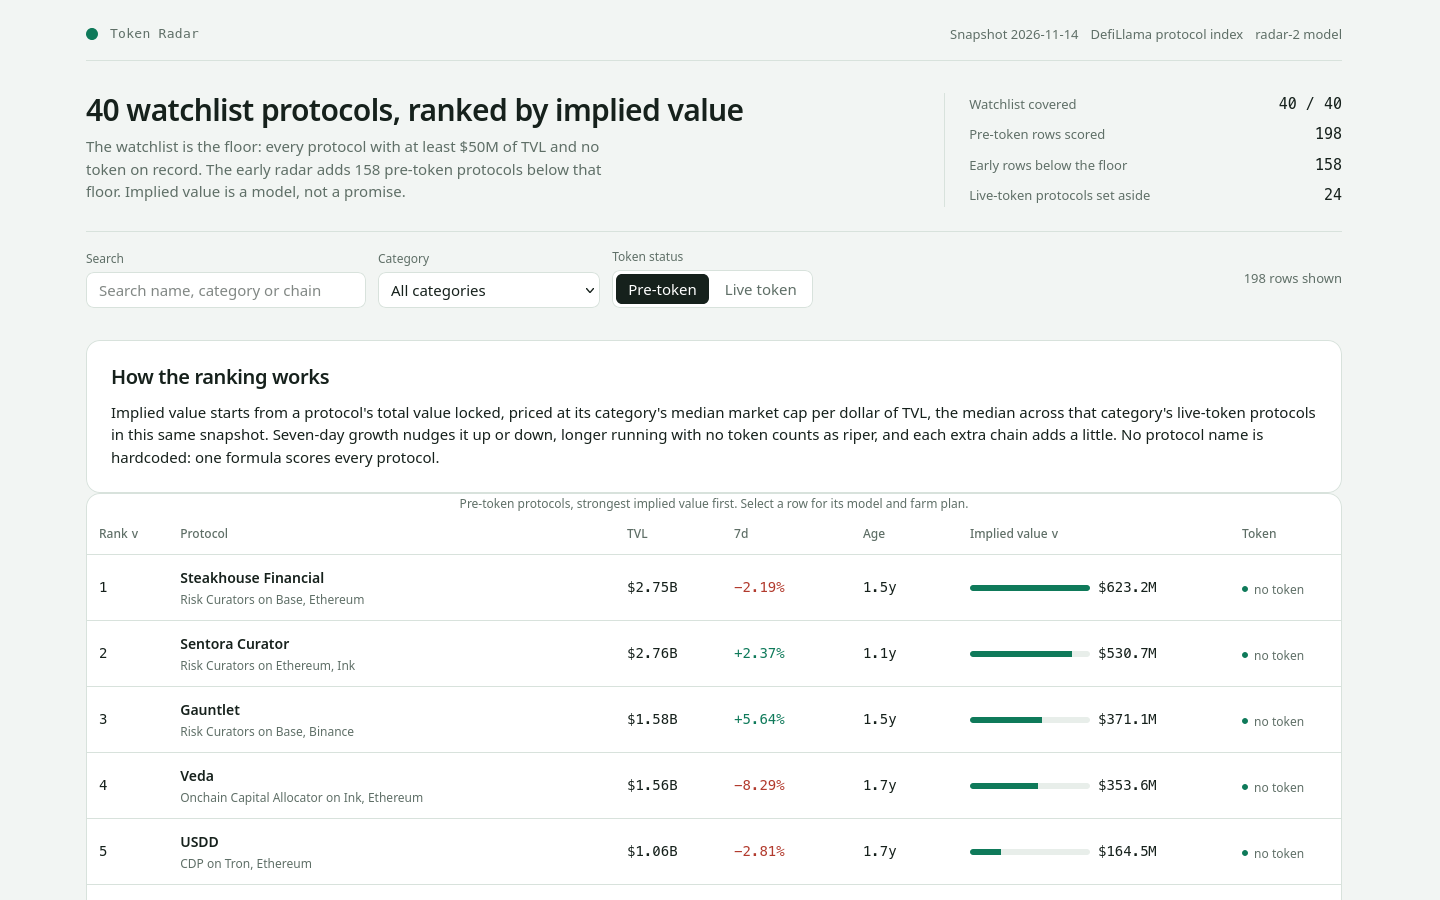
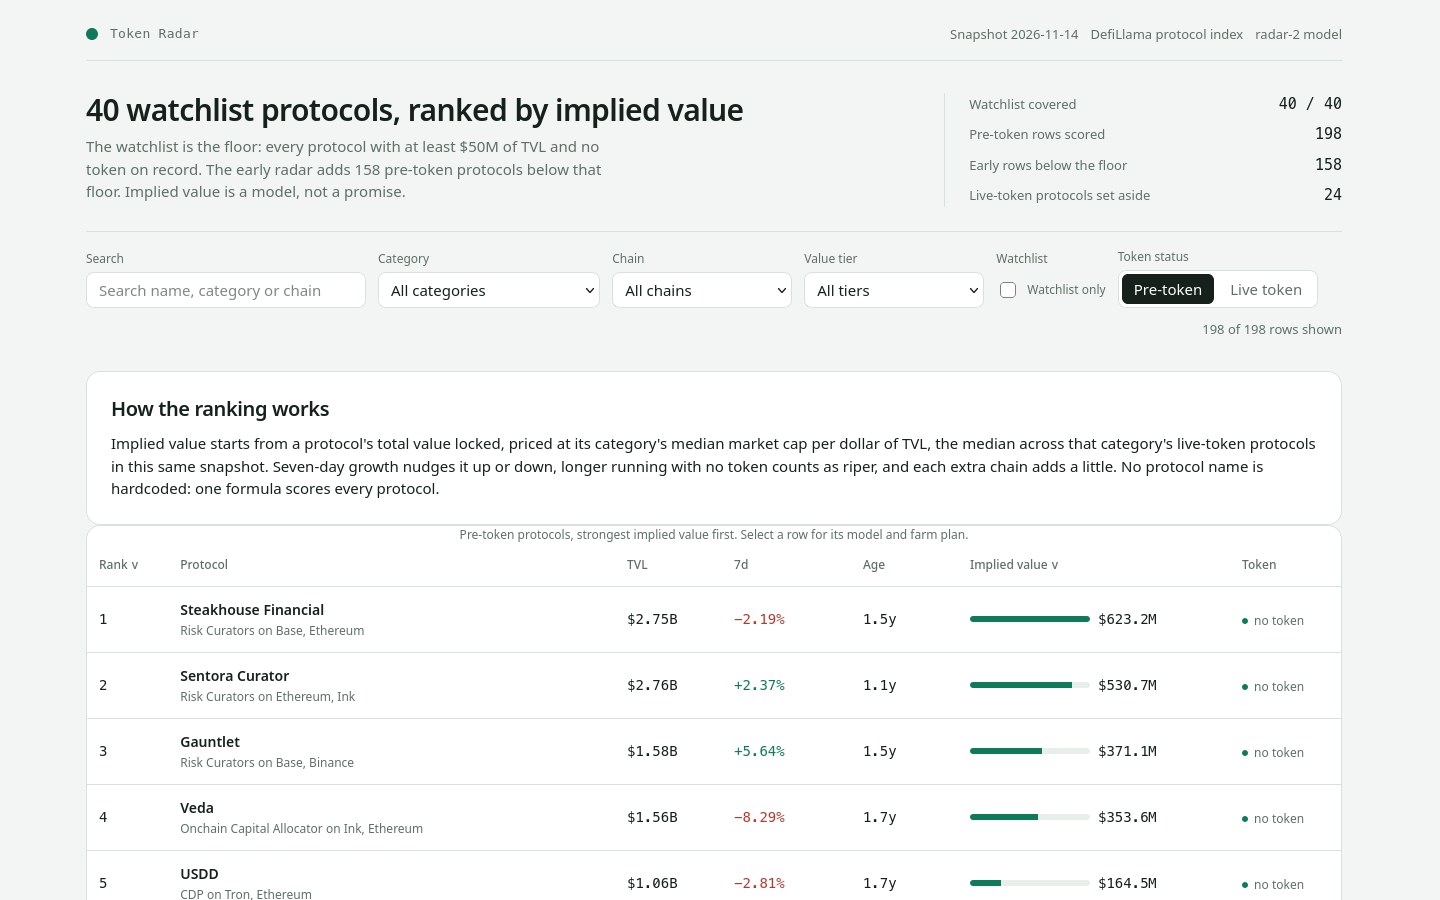
token-radar v3: chain/tier/watchlist filters, category leaders, farm summary, rank context

diff --git a/dashboard/app.js b/dashboard/app.js
@@ -8,7 +8,33 @@
   if (!DATA) return;
   var ENRICH = DATA.enrichments || {};
   var app = document.getElementById('board');
-  var state = { q: '', category: 'all', tab: 'pre-token', sort: 'implied', dir: -1, selected: null };
+  var state = { q: '', category: 'all', chain: 'all', tier: 'all', watchlistOnly: false, tab: 'pre-token', sort: 'implied', dir: -1, selected: null };
+
+  // The value tiers the enrichment layer assigns, largest implied value first, so the
+  // tier filter lists them in the same order the board reads them.
+  var TIER_ORDER = ['flagship', 'major', 'notable', 'emerging', 'nascent'];
+
+  // Every chain the board's rows run on, sorted, for the chain filter: derived from the
+  // rows themselves, so a snapshot with a new chain lists it with no code change.
+  function allChains() {
+    var seen = {};
+    DATA.rows.forEach(function (r) { (r.chains || []).forEach(function (c) { seen[c] = true; }); });
+    return Object.keys(seen).sort();
+  }
+
+  // A row's value tier from its enrichment record; a row with no enrichment reads as
+  // nascent, the smallest tier, so the filter never drops a row for missing data.
+  function tierOf(row) {
+    var e = ENRICH[row.slug];
+    return e && e.value_tier ? e.value_tier : 'nascent';
+  }
+
+  // Whether a row is one of the 40 watchlist protocols: its slug is in the list main.ts
+  // writes beside the board, so the watchlist-only view needs no second source of truth.
+  function isWatchlist(row) {
+    var slugs = DATA.watchlist_slugs || [];
+    return slugs.indexOf(row.slug) >= 0;
+  }
 
   var usd = new Intl.NumberFormat('en-US', { style: 'currency', currency: 'USD', maximumFractionDigits: 0 });
   function fmtUsd(n) {
@@ -127,11 +153,17 @@
     if (params.get('q')) state.q = params.get('q');
     if (params.get('p')) state.selected = params.get('p');
     if (params.get('category')) state.category = params.get('category');
+    if (params.get('chain')) state.chain = params.get('chain');
+    if (params.get('tier')) state.tier = params.get('tier');
+    if (params.get('wl') === '1') state.watchlistOnly = true;
   }
   function writeHash() {
     var params = new URLSearchParams();
     if (state.q) params.set('q', state.q);
     if (state.category !== 'all') params.set('category', state.category);
+    if (state.chain !== 'all') params.set('chain', state.chain);
+    if (state.tier !== 'all') params.set('tier', state.tier);
+    if (state.watchlistOnly) params.set('wl', '1');
     if (state.selected) params.set('p', state.selected);
     var next = params.toString();
     if (next) window.history.replaceState(null, '', '#' + next);
@@ -142,10 +174,31 @@
     var q = state.q.trim().toLowerCase();
     return DATA.rows.filter(function (r) {
       if (state.category !== 'all' && r.category !== state.category) return false;
+      if (state.chain !== 'all' && (r.chains || []).indexOf(state.chain) < 0) return false;
+      if (state.tier !== 'all' && tierOf(r) !== state.tier) return false;
+      if (state.watchlistOnly && !isWatchlist(r)) return false;
       if (!q) return true;
       var hay = [r.name, r.slug, r.category, (r.chains || []).join(' ')].join(' ').toLowerCase();
       return hay.indexOf(q) >= 0;
     });
+  }
+
+  // How many of the board's rows survive the filters, and how many the watchlist holds,
+  // so the count line under the controls always says what the filters are doing.
+  function filterSummary() {
+    var shown = rows().length;
+    var total = DATA.rows.length;
+    var wl = (DATA.watchlist_slugs || []).length;
+    var active = [];
+    if (state.category !== 'all') active.push(state.category);
+    if (state.chain !== 'all') active.push(state.chain);
+    if (state.tier !== 'all') active.push(state.tier + ' tier');
+    if (state.watchlistOnly) active.push('watchlist only');
+    if (state.q.trim()) active.push('"' + state.q.trim() + '"');
+    var label = shown + ' of ' + total + ' rows shown';
+    if (active.length > 0) label += ' (' + active.join(' + ') + ')';
+    if (state.watchlistOnly) label += ' of ' + wl + ' watchlist protocols';
+    return label;
   }
   function sortedRows(list) {
     var key = state.sort;
@@ -190,6 +243,7 @@
 
   function controls() {
     var categories = Array.from(new Set(DATA.rows.map(function (r) { return r.category || 'Other'; }))).sort();
+    var chains = allChains();
     var search = el('input', { type: 'search', id: 'q', placeholder: 'Search name, category or chain', value: state.q, 'aria-label': 'Search the board' });
     search.addEventListener('input', function () { state.q = search.value; writeHash(); render(); });
     var select = el('select', { id: 'category', 'aria-label': 'Filter by category' },
@@ -197,13 +251,27 @@
       categories.map(function (c) { return el('option', { value: c, text: c, selected: c === state.category ? 'selected' : null }); })
     );
     select.addEventListener('change', function () { state.category = select.value; writeHash(); render(); });
+    var chainSelect = el('select', { id: 'chain', 'aria-label': 'Filter by chain' },
+      el('option', { value: 'all', text: 'All chains' }),
+      chains.map(function (c) { return el('option', { value: c, text: c, selected: c === state.chain ? 'selected' : null }); })
+    );
+    chainSelect.addEventListener('change', function () { state.chain = chainSelect.value; writeHash(); render(); });
+    var tierSelect = el('select', { id: 'tier', 'aria-label': 'Filter by value tier' },
+      el('option', { value: 'all', text: 'All tiers' }),
+      TIER_ORDER.map(function (t) { return el('option', { value: t, text: t + ' tier', selected: t === state.tier ? 'selected' : null }); })
+    );
+    tierSelect.addEventListener('change', function () { state.tier = tierSelect.value; writeHash(); render(); });
+    var watchlistBox = el('input', { type: 'checkbox', id: 'watchlist-only', checked: state.watchlistOnly ? 'checked' : null, onchange: function () { state.watchlistOnly = watchlistBox.checked; writeHash(); render(); } });
     var pre = el('button', { type: 'button', 'aria-pressed': state.tab === 'pre-token' ? 'true' : 'false', text: 'Pre-token', onclick: function () { state.tab = 'pre-token'; render(); } });
     var live = el('button', { type: 'button', 'aria-pressed': state.tab === 'live' ? 'true' : 'false', text: 'Live token', onclick: function () { state.tab = 'live'; render(); } });
     return el('div', { class: 'controls' },
       el('div', { class: 'field' }, el('label', { for: 'q', text: 'Search' }), search),
       el('div', { class: 'field' }, el('label', { for: 'category', text: 'Category' }), select),
+      el('div', { class: 'field' }, el('label', { for: 'chain', text: 'Chain' }), chainSelect),
+      el('div', { class: 'field' }, el('label', { for: 'tier', text: 'Value tier' }), tierSelect),
+      el('div', { class: 'field' }, el('span', { class: 'sub', text: 'Watchlist' }), el('label', { class: 'check' }, watchlistBox, 'Watchlist only')),
       el('div', { class: 'field' }, el('span', { class: 'sub', text: 'Token status' }), el('div', { class: 'tabs' }, pre, live)),
-      el('span', { class: 'count', text: state.tab === 'pre-token' ? rows().length + ' rows shown' : DATA.live.length + ' live-token protocols' })
+      el('span', { class: 'count', text: state.tab === 'pre-token' ? filterSummary() : DATA.live.length + ' live-token protocols' })
     );
   }
 
@@ -222,7 +290,7 @@
       return el('div', { class: 'panel' }, el('div', { class: 'empty' },
         el('h2', { text: 'No protocol matches that filter' }),
         el('p', { text: 'Clear the search or pick another category to see the board again.' }),
-        el('button', { class: 'button primary', type: 'button', text: 'Clear filters', onclick: function () { state.q = ''; state.category = 'all'; writeHash(); render(); } })
+        el('button', { class: 'button primary', type: 'button', text: 'Clear filters', onclick: function () { state.q = ''; state.category = 'all'; state.chain = 'all'; state.tier = 'all'; state.watchlistOnly = false; writeHash(); render(); } })
       ));
     }
     var max = list[0].implied_value_usd || 1;
@@ -355,6 +423,31 @@
     );
   }
 
+  // The category leaders: the single strongest protocol in each line of business, by
+  // implied value, so a reader can see at a glance which name leads lending, which leads
+  // bridges, and so on, without sorting the whole board. The leader is the row with the
+  // largest implied value in its category; ties are impossible, ranks are unique.
+  function categoryLeaders() {
+    var best = {};
+    DATA.rows.forEach(function (r) {
+      var c = r.category || 'Other';
+      if (!best[c] || r.implied_value_usd > best[c].implied_value_usd) best[c] = r;
+    });
+    var list = Object.keys(best).map(function (c) { return best[c]; }).sort(function (a, b) { return b.implied_value_usd - a.implied_value_usd; });
+    var max = list.length ? list[0].implied_value_usd : 1;
+    return el('section', { class: 'panel model' },
+      el('h2', { text: 'Category leaders' }),
+      el('p', { class: 'sub', text: 'The strongest pre-token protocol in each line of business, by implied value. ' + list.length + ' categories, one leader each.' }),
+      el('div', { class: 'catbars' }, list.map(function (r) {
+        return el('div', { class: 'catbar' },
+          el('span', { class: 'catname', text: (r.category || 'Other') + ': ' + r.name + ' (#' + r.rank + ')' }),
+          el('div', { class: 'bar wide', 'aria-hidden': 'true' }, el('i', { style: 'width:' + Math.max(3, Math.round((r.implied_value_usd / max) * 100)) + '%' })),
+          el('span', { class: 'num', text: fmtUsd(r.implied_value_usd) })
+        );
+      }))
+    );
+  }
+
   // One labelled value for the detail view's equation grid: a plain label and a bold figure.
   function detailRow(label, value) {
     return el('div', null, el('span', { text: label }), el('b', { class: 'num', text: value }));
@@ -452,6 +545,47 @@
     host.appendChild(el('section', { class: 'panel model' }, heading, intro, wrap));
   }
 
+  // The farm plan in one box: what it takes to farm this protocol, read off the same
+  // figures the steps use. Capital and setup gas follow the TVL bands; the weekly gas
+  // is $2 a week for the hold, so the gas over the hold is the setup plus the weeks held.
+  function farmSummary(row) {
+    var chain = chainOf(row);
+    var capital = capitalFor(row);
+    var hold = holdDaysFor(row.age_days);
+    var setupGas = capital >= 150 ? 8 : 4;
+    var weeks = Math.max(1, Math.ceil(hold / 7));
+    var weeklyGas = 2 * weeks;
+    var totalGas = setupGas + weeklyGas;
+    return el('section', { class: 'detail-section' },
+      el('h3', { text: 'What farming it takes' }),
+      el('div', { class: 'equation' },
+        detailRow('Capital to commit', '$' + capital),
+        detailRow('Setup gas', 'about $' + setupGas),
+        detailRow('Weekly gas', 'about $2 a week'),
+        detailRow('Hold', hold + ' days (' + weeks + ' weeks)'),
+        detailRow('Gas over the hold', 'about $' + totalGas),
+        detailRow('Main chain', chain)
+      ),
+      el('p', { class: 'sub', text: 'The capital stays in the position for the hold; the gas is the cost of the transactions. A fresh wallet holds only these funds, and the claim comes only from the link the protocol itself publishes.' })
+    );
+  }
+
+  // Where this row sits on the board: its percentile, the median implied value of its
+  // own category, and how far it is from the board's top row, so the rank reads as a
+  // position, not just a number.
+  function rankContext(row) {
+    var top = DATA.rows.filter(function (r) { return r.rank === 1; })[0];
+    var same = DATA.rows.filter(function (r) { return (r.category || 'Other') === (row.category || 'Other'); }).map(function (r) { return r.implied_value_usd; }).sort(function (a, b) { return a - b; });
+    var mid = Math.floor(same.length / 2);
+    var medianValue = same.length % 2 === 1 ? same[mid] : (same[mid - 1] + same[mid]) / 2;
+    var percentile = Math.round(((DATA.board_size - row.rank + 1) / DATA.board_size) * 100);
+    var share = top ? Math.round((row.implied_value_usd / top.implied_value_usd) * 100) : 0;
+    return el('section', { class: 'detail-section' },
+      el('h3', { text: 'Where this rank sits' }),
+      el('p', { class: 'sub', text: row.name + ' is rank ' + row.rank + ' of ' + DATA.board_size + ', the top ' + percentile + '% of the board. Its category median is ' + fmtUsd(medianValue) + ', and it carries ' + share + '% of the top row' + (top ? ' (' + top.name + ' at ' + fmtUsd(top.implied_value_usd) + ')' : '') + '.' })
+    );
+  }
+
   var dialog = el('dialog', { class: 'detail', id: 'detail', 'aria-labelledby': 'detail-title' });
   dialog.addEventListener('close', function () { state.selected = null; writeHash(); });
 
@@ -486,6 +620,7 @@
     ));
     var enrichmentBlock = enrichmentSection(row);
     if (enrichmentBlock) dialog.appendChild(enrichmentBlock);
+    dialog.appendChild(rankContext(row));
     dialog.appendChild(el('section', { class: 'detail-section' },
       el('h3', { text: 'Farm plan' }),
       el('ol', { class: 'steps' }, steps.map(function (s) {
@@ -495,6 +630,7 @@
         return el('li', null, el('b', { text: action }), el('span', { class: 'cost', text: tail }));
       }))
     ));
+    dialog.appendChild(farmSummary(row));
     if (typeof dialog.showModal === 'function') {
       if (!dialog.open) dialog.showModal();
     } else {
@@ -510,7 +646,7 @@
     shell.appendChild(controls());
     if (state.tab === 'pre-token') shell.appendChild(methodology());
     shell.appendChild(state.tab === 'pre-token' ? boardTable() : liveTable());
-    if (state.tab === 'pre-token') { shell.appendChild(modelPanel()); shell.appendChild(categoryBars()); }
+    if (state.tab === 'pre-token') { shell.appendChild(modelPanel()); shell.appendChild(categoryBars()); shell.appendChild(categoryLeaders()); }
     app.appendChild(shell);
     app.setAttribute('aria-busy', 'false');
     if (!dialog.isConnected) app.appendChild(dialog);

diff --git a/dashboard/app.css b/dashboard/app.css
@@ -70,6 +70,9 @@ a { color: var(--accent); }
   background: var(--surface); min-width: 180px;
 }
 .field input { min-width: 280px; }
+.field input[type="checkbox"] { min-width: 0; width: 16px; height: 16px; min-height: 0; padding: 0; border: 0; background: transparent; border-radius: 0; flex: none; }
+.check { display: inline-flex; align-items: center; gap: var(--step-2); min-height: 36px; font-size: 13px; cursor: pointer; justify-self: start; }
+.check input { accent-color: var(--accent); }
 .tabs { display: flex; gap: var(--step-1); padding: 3px; border: 1px solid var(--border); border-radius: var(--radius-control); background: var(--surface); }
 .tabs button { min-height: 30px; padding: 0 var(--step-3); border: 0; border-radius: 6px; background: transparent; color: var(--muted); }
 .tabs button[aria-pressed="true"] { background: var(--ink); color: var(--surface); }

diff --git a/lib/model.ts b/lib/model.ts
@@ -171,6 +171,9 @@ export interface RadarData {
   model_version: string;
   calibration: Calibration;
   watchlist_size: number;
+  // The watchlist's slugs, so the dashboard can offer a watchlist-only view without
+  // re-deriving membership: a row is on the watchlist exactly when its slug is in here.
+  watchlist_slugs: string[];
   board_size: number;
   early_size: number;
   live_size: number;
@@ -540,6 +543,7 @@ export function buildRadar(snapshot: Snapshot, model: ModelConstants = MODEL): {
       byCategory: calibration.byCategory.filter((c) => boardCats.has(c.category)),
     },
     watchlist_size: snapshot.watchlist.length,
+    watchlist_slugs: snapshot.watchlist.slice(),
     board_size: board.length,
     early_size: early,
     live_size: live.length,
